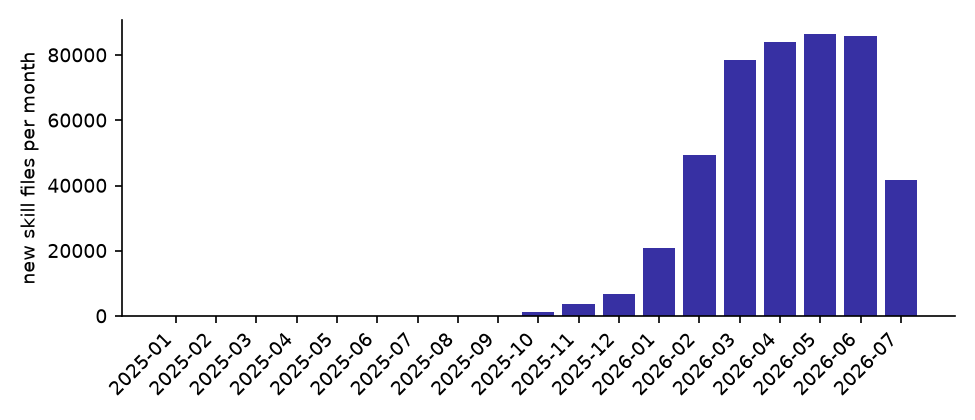
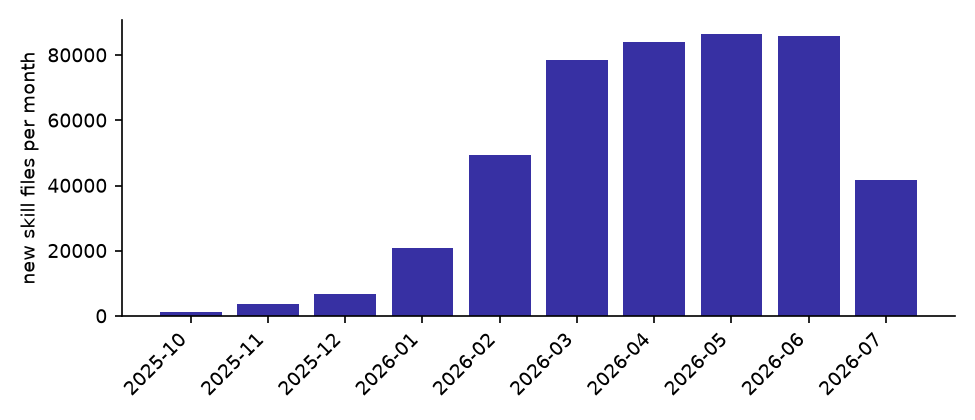
Start growth plot at the format introduction

Changed region(s): [[0.0923, 0.0619, 0.9231, 0.9595]]

diff --git a/README.md b/README.md
@@ -149,9 +149,10 @@ All figures below are for the full dataset.
 
 ## Three views of the full dataset
 
-New skill files per month, dated by the first commit of the 458,548
-files with history. Dates follow the file's current path, so renamed
-files appear late; July 2026 covers only the collection window.
+New skill files per month since the format's introduction in October
+2025, dated by the first commit of the 458,548 files with history.
+Dates follow the file's current path, so renamed files appear late;
+July 2026 covers only the collection window.
 
 ![New skill files per month](plots/growth.png)
 
